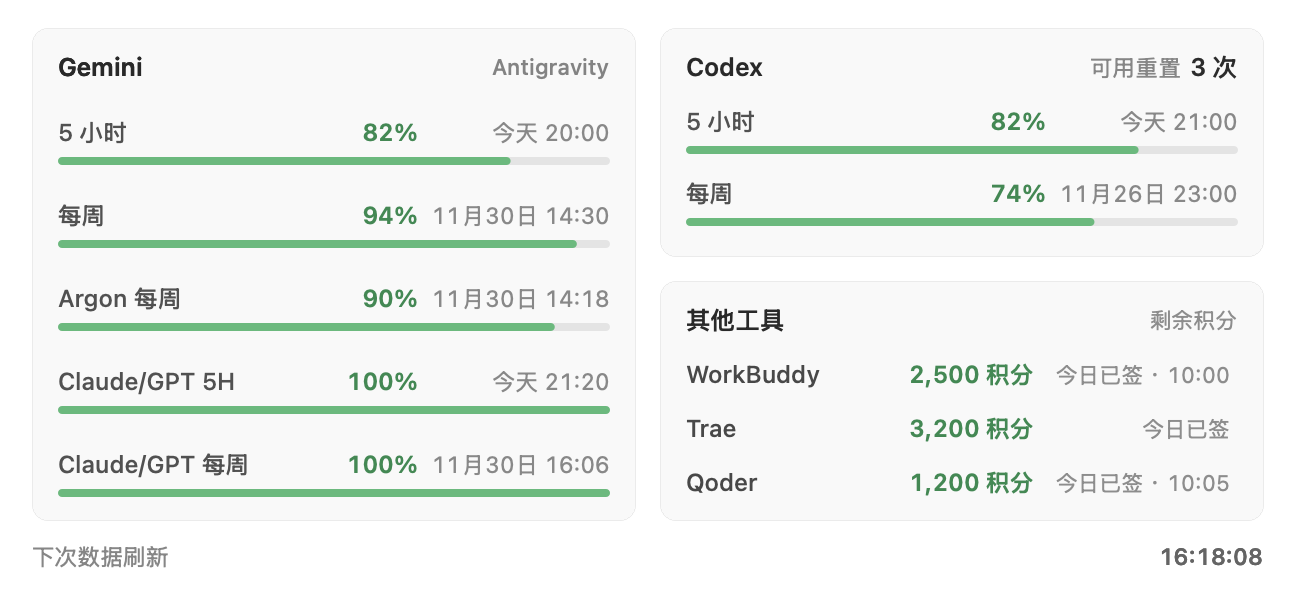
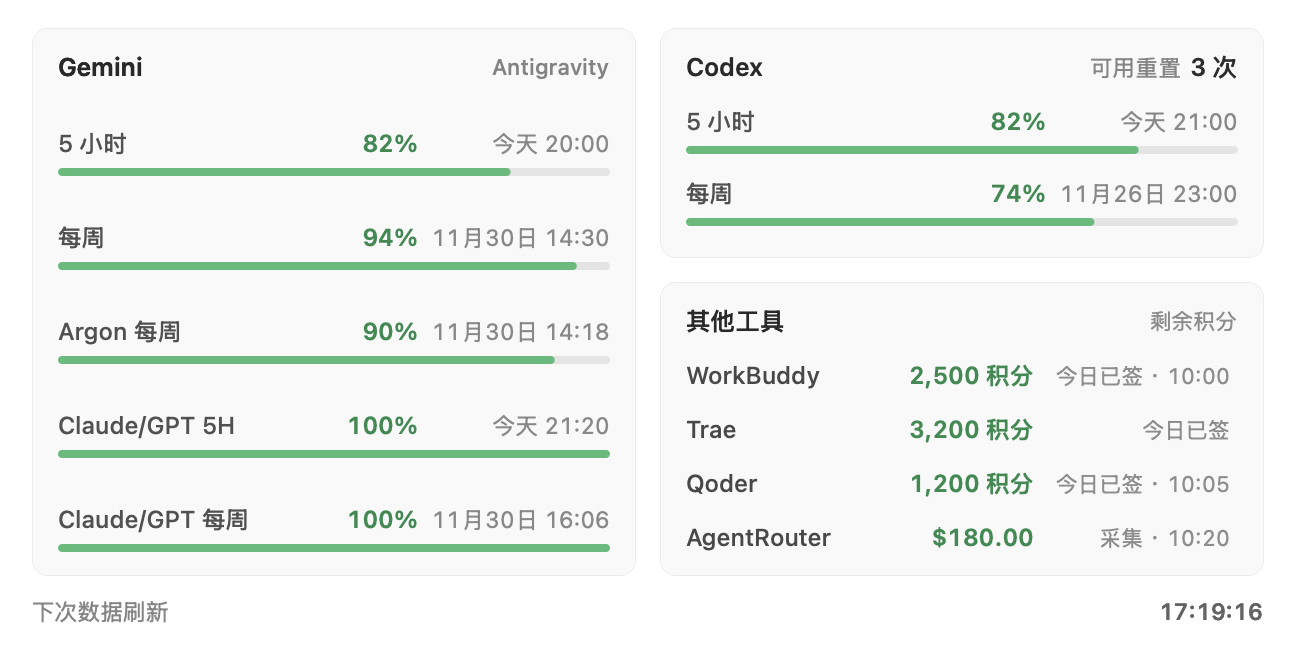
Add AgentRouter balance row and update v0.2.0 two-column preview

diff --git a/macos/CodexUsageStatus/Sources/CodexUsageStatus/UI/HoverCardViewController.swift b/macos/CodexUsageStatus/Sources/CodexUsageStatus/UI/HoverCardViewController.swift
@@ -23,7 +23,7 @@ final class HoverCardViewController: NSViewController {
     private let geminiEmptyHint = NSTextField(labelWithString: "")
     private let geminiStatus = NSTextField(labelWithString: "")
 
-    private let extraToolRowViews = [CreditToolRowView(), CreditToolRowView(), CreditToolRowView()]
+    private let extraToolRowViews = (0..<4).map { _ in CreditToolRowView() }
 
     private let refresh = NSTextField(labelWithString: "等待首次刷新")
 
@@ -218,7 +218,7 @@ final class HoverCardViewController: NSViewController {
             row.isHidden = true
         }
 
-        return makeSectionCard(views: [header] + geminiRowViews + [geminiEmptyHint, geminiStatus], spacing: 17.5, verticalPadding: 12).0
+        return makeSectionCard(views: [header] + geminiRowViews + [geminiEmptyHint, geminiStatus], spacing: 23, verticalPadding: 12).0
     }
 
     private func makeSectionCard(views: [NSView], spacing: CGFloat, verticalPadding: CGFloat) -> (NSView, NSStackView) {
@@ -426,8 +426,8 @@ private final class CreditToolRowView: NSView {
             row.trailingAnchor.constraint(equalTo: trailingAnchor),
             row.topAnchor.constraint(equalTo: topAnchor),
             row.bottomAnchor.constraint(equalTo: bottomAnchor),
-            nameLabel.widthAnchor.constraint(equalToConstant: 72),
-            valueLabel.widthAnchor.constraint(greaterThanOrEqualToConstant: 96),
+            nameLabel.widthAnchor.constraint(equalToConstant: 78),
+            valueLabel.widthAnchor.constraint(greaterThanOrEqualToConstant: 90),
             statusLabel.widthAnchor.constraint(equalToConstant: 92),
         ])
     }

diff --git a/macos/CodexUsageStatus/Sources/CodexUsageStatus/Domain/GeminiUsageModels.swift b/macos/CodexUsageStatus/Sources/CodexUsageStatus/Domain/GeminiUsageModels.swift
@@ -147,7 +147,7 @@ struct GeminiUsageSummary: Sendable, Equatable {
             let pct = bucket.remainingPercent.map { "\($0)%" } ?? "--"
             return "\(bucket.label) \(pct)"
         }
-        let extraParts = extraProviders.prefix(3).map { tool in
+        let extraParts = extraProviders.prefix(4).map { tool in
             let val = tool.valueText ?? tool.remainingPercent.map { "\($0)%" } ?? (tool.statusText ?? "--")
             return "\(tool.name) \(val)"
         }

diff --git a/macos/CodexUsageStatus/Sources/CodexUsageStatus/Domain/HoverPresentation.swift b/macos/CodexUsageStatus/Sources/CodexUsageStatus/Domain/HoverPresentation.swift
@@ -91,6 +91,7 @@ struct HoverPresentation {
             ("workbuddy", "WorkBuddy"),
             ("traecn", "Trae"),
             ("qoder", "Qoder"),
+            ("agentrouter", "AgentRouter"),
         ]
         let extrasByID = Dictionary(
             uniqueKeysWithValues: (geminiUsage?.extraProviders ?? []).map { ($0.id.lowercased(), $0) }

diff --git a/CHANGELOG.md b/CHANGELOG.md
@@ -5,7 +5,7 @@
 ### 中文
 
 - **项目更名**：GitHub 仓库与文档展示名更新为 **AI Usage Status**（`Serendipity-Y/ai-usage-status`），本机应用包与配置目录保持 `CodexUsageStatus` 以兼容现有安装。
-- **双栏悬浮弹窗布局**：重构悬浮卡片为左右双栏白底设计——左栏展示 Gemini / Antigravity 全部配额桶（最多 5 行，含进度条、百分比与重置时间），右栏依次展示 Codex（5 小时 / 每周进度条与可用重置次数）以及 WorkBuddy / Trae / Qoder 剩余积分与签到状态；全卡片采用表格式列对齐与左右等高齐平排版。
+- **双栏悬浮弹窗布局**：重构悬浮卡片为左右双栏白底设计——左栏展示 Gemini / Antigravity 全部配额桶（最多 5 行，含进度条、百分比与重置时间），右栏依次展示 Codex（5 小时 / 每周进度条与可用重置次数）以及 WorkBuddy / Trae / Qoder / AgentRouter 剩余积分/余额与签到状态；全卡片采用表格式列对齐与左右等高齐平排版。
 - **紧凑单环样式（Compact Ring 7D）**：新增 `30pt` 宽紧凑单环菜单栏图标，解决刘海屏右侧菜单栏空间紧张导致图标被遮挡的问题；支持在 `Display Style` 菜单中与双环 / 大字模式自由切换。
 - **合规可扩展的外部额度适配器**：新增 Gemini 及外部工具（WorkBuddy / Trae / Qoder）并发独立刷新适配器，支持通过本地 JSON 快照文件（`GEMINI_QUOTA_FILE` 或默认 `~/Library/Application Support/CodexUsageStatus/gemini-quota.json`）或用户自定义可执行命令（`GEMINI_QUOTA_COMMAND` 或默认 `bin/fetch-gemini-quota.py`）接入；不内置任何未公开服务探测、Keychain 读取或 Cookie 抓取，且外部源异常不影响 Codex 主刷新。
 - **多宿主联动启停（Lifecycle Helper）**：扩展 `QuotaLifecycle.swift` 与 `install.py` 支持多个 `--host-app`（默认自动检测本机已安装的 `ChatGPT.app`、`Gemini.app`、`Antigravity.app`）；三者任意一个运行即保持菜单栏显示，全部退出后自动关闭。

diff --git a/README.md b/README.md
@@ -16,7 +16,7 @@
 - **双栏白底悬浮弹窗**：鼠标停留在菜单栏图标约 `0.2s` 自动展开：
   - **左栏（Gemini · Antigravity）**：支持最多 5 条配额桶（`5 小时`、`每周`、`Argon 每周`、`Claude/GPT 5H`、`Claude/GPT 每周`），带语义色进度条、表格式对齐百分比与重置时间；
   - **右栏上区（Codex）**：展示可用重置次数（`availableCount`）、`5 小时` 与 `每周` 剩余百分比进度条及重置时间；
-  - **右栏下区（其他工具）**：以三列对齐方式展示 **WorkBuddy / Trae / Qoder** 剩余积分与今日签到状态；
+  - **右栏下区（其他工具）**：以三列对齐方式展示 **WorkBuddy / Trae / Qoder / AgentRouter** 剩余积分/美元余额与签到状态；
   - **底部通栏**：展示下次后台自动刷新时间。
 - **三种菜单栏图标样式**：点击菜单栏图标 → **Display Style** 可自由切换：
   - **Compact Ring (7D)**（`30pt` 宽紧凑单环，专为刘海屏右侧菜单栏优化，不易被遮挡）；
